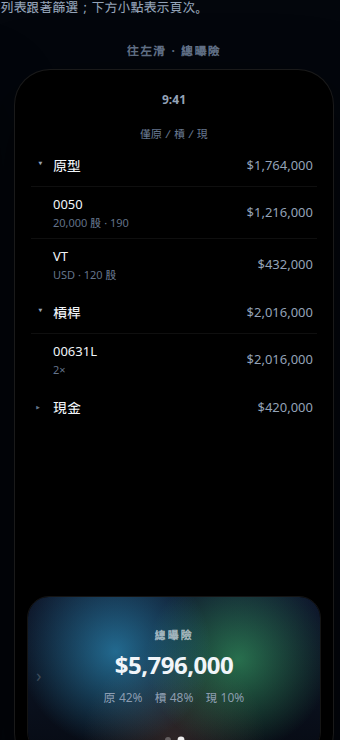
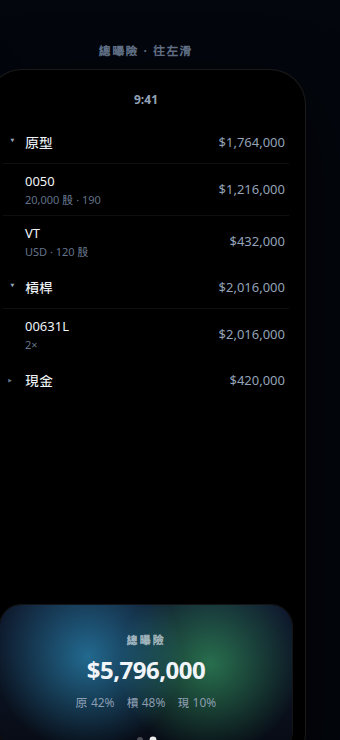
Update panel mock: centered 資產/負債, drop swipe hint
Net-worth mode shows two centered title-style blocks; tapping
資產 expands into 原槓現 (plus 實體). Remove instructional
swipe copy; page dots only.

diff --git a/mockups/panel-pager.html b/mockups/panel-pager.html
@@ -3,18 +3,14 @@
 <head>
   <meta charset="UTF-8">
   <meta name="viewport" content="width=device-width, initial-scale=1">
-  <title>光暈面板左右滑 — 淨值 / 曝險</title>
+  <title>光暈面板 — 淨值 / 曝險</title>
   <style>
     :root {
       --bg: #03060c;
       --text: #f1f5f9;
       --muted: #94a3b8;
       --dim: #64748b;
-      --row: rgba(255, 255, 255, 0.04);
       --line: rgba(255, 255, 255, 0.06);
-      --original: #38bdf8;
-      --leverage: #4ade80;
-      --cash: #facc15;
     }
     * { box-sizing: border-box; margin: 0; padding: 0; }
     body {
@@ -46,36 +42,74 @@
       height: 44px; display: flex; align-items: flex-end; justify-content: center;
       padding-bottom: 6px; font-size: 12px; font-weight: 600; color: var(--muted); flex-shrink: 0;
     }
-    /* List matches current git: 5 AssetKind sections */
     .list {
-      flex: 1; overflow: hidden; padding: 4px 0 0;
-      background: #000;
+      flex: 1; overflow: hidden; padding: 8px 0 0; background: #000;
+      display: flex; flex-direction: column;
     }
-    .section { padding: 0 16px; margin-bottom: 2px; }
+
+    /* Centered blocks — same weight as nav title「資產」 */
+    .block-stack {
+      flex: 1; display: flex; flex-direction: column;
+      justify-content: center; gap: 36px; padding: 0 24px 8px;
+    }
+    .block {
+      text-align: center;
+    }
+    .block .title {
+      font-size: 17px; font-weight: 600; letter-spacing: -0.01em;
+      /* matches inline nav title「資產」 */
+    }
+    .block .amt {
+      margin-top: 8px;
+      font-size: 15px; font-weight: 500;
+      font-variant-numeric: tabular-nums;
+      color: var(--muted);
+    }
+    .block.debt .amt { color: var(--dim); }
+
+    /* Expanded 資產 → 原槓現 (+ 實體仍屬資產，列在展開後) */
+    .expanded-head {
+      text-align: center; padding: 10px 16px 6px;
+    }
+    .expanded-head .title {
+      font-size: 17px; font-weight: 600;
+    }
+    .expanded-head .amt {
+      margin-top: 4px; font-size: 13px; color: var(--muted);
+      font-variant-numeric: tabular-nums;
+    }
+    .section { padding: 0 16px; }
     .header {
       display: flex; align-items: center; gap: 8px;
       padding: 11px 4px; font-size: 14px;
     }
     .header .chev { font-size: 9px; color: var(--dim); width: 10px; }
     .header .chev.open { display: inline-block; transform: rotate(90deg); color: var(--muted); }
-    .header .title { flex: 1; font-weight: 500; }
-    .header .amt { font-size: 13px; color: var(--muted); font-variant-numeric: tabular-nums; }
+    .header .t { flex: 1; font-weight: 500; }
+    .header .a { font-size: 13px; color: var(--muted); font-variant-numeric: tabular-nums; }
     .item {
       display: flex; align-items: center; padding: 8px 4px 8px 22px;
       border-top: 1px solid var(--line); font-size: 13px;
     }
     .item .n { flex: 1; }
     .item .sub { font-size: 11px; color: var(--dim); margin-top: 2px; }
-    .item .amt { color: var(--muted); font-variant-numeric: tabular-nums; }
-    .ghost { opacity: 0.28; pointer-events: none; }
+    .item .a { color: var(--muted); font-variant-numeric: tabular-nums; }
+    .debt-block-bottom {
+      margin-top: auto; padding: 20px 24px 12px; text-align: center;
+      border-top: 1px solid var(--line);
+    }
+    .debt-block-bottom .title { font-size: 17px; font-weight: 600; }
+    .debt-block-bottom .amt {
+      margin-top: 6px; font-size: 15px; color: var(--dim);
+      font-variant-numeric: tabular-nums;
+    }
     .fade-note {
       text-align: center; font-size: 11px; color: var(--dim);
-      padding: 8px 16px 4px; letter-spacing: 0.04em;
+      padding: 6px 16px 2px; letter-spacing: 0.04em;
     }
 
-    /* Docked glow panel — horizontal pages */
     .dock {
-      flex-shrink: 0; margin: 6px 12px 14px; height: 158px;
+      flex-shrink: 0; margin: 6px 12px 14px; height: 150px;
       border-radius: 22px; position: relative; overflow: hidden;
       border: 1px solid rgba(255, 255, 255, 0.08);
       box-shadow: 0 10px 28px rgba(0,0,0,0.35);
@@ -93,7 +127,6 @@
       background:
         radial-gradient(circle at 30% 35%, rgba(56, 189, 248, 0.5), transparent 42%),
         radial-gradient(circle at 72% 40%, rgba(74, 222, 128, 0.45), transparent 40%),
-        radial-gradient(circle at 50% 90%, rgba(217, 148, 107, 0.18), transparent 45%),
         linear-gradient(180deg, #0f1a2e, #070b14);
     }
     .pager {
@@ -104,7 +137,7 @@
     .page {
       flex: 0 0 100%; width: 100%; height: 100%;
       display: flex; flex-direction: column; align-items: center; justify-content: center;
-      padding: 12px 16px 28px; text-align: center;
+      padding: 12px 16px 26px; text-align: center;
     }
     .page .label {
       font-size: 11px; font-weight: 600; letter-spacing: 0.18em;
@@ -118,11 +151,6 @@
       margin-top: 8px; font-size: 12px; color: rgba(148, 163, 184, 0.95);
       font-variant-numeric: tabular-nums; min-height: 16px;
     }
-    .page .hint-swipe {
-      margin-top: 6px; font-size: 10px; color: rgba(148, 163, 184, 0.45);
-      letter-spacing: 0.06em;
-    }
-    /* iOS-style page dots */
     .dots {
       position: absolute; z-index: 3; left: 0; right: 0; bottom: 10px;
       display: flex; justify-content: center; gap: 7px; pointer-events: none;
@@ -130,50 +158,37 @@
     .dots span {
       width: 6px; height: 6px; border-radius: 50%;
       background: rgba(255, 255, 255, 0.28);
-      transition: background 0.2s, transform 0.2s;
     }
     .phone[data-page="0"] .dots span:nth-child(1),
     .phone[data-page="1"] .dots span:nth-child(2) {
       background: rgba(255, 255, 255, 0.92);
       transform: scale(1.15);
     }
-    .edge-cue {
-      position: absolute; z-index: 2; top: 50%; transform: translateY(-50%);
-      font-size: 18px; color: rgba(255,255,255,0.2); pointer-events: none;
-    }
-    .edge-cue.r { right: 8px; }
-    .edge-cue.l { left: 8px; }
   </style>
 </head>
 <body>
   <div class="page-title">
-    <div class="badge">MOCK · 對齊目前 git · 非實作</div>
-    <h1>光暈面板左右滑：總淨值 ↔ 總曝險</h1>
-    <p>資產列表維持現有 5 類。面板換頁時列表跟著篩選；下方小點表示頁次。</p>
+    <div class="badge">MOCK · 非實作</div>
+    <h1>淨值：資產／負債兩塊 · 點資產展開原槓現</h1>
+    <p>面板無滑動提示文案；小點表示頁次。</p>
   </div>
 
   <div class="stage">
-    <!-- Page 0: 總淨值 -->
+    <!-- 淨值 · 收合 -->
     <div class="col">
-      <div class="col-label">預設 · 總淨值</div>
+      <div class="col-label">總淨值 · 預設</div>
       <div class="phone" data-page="0">
         <div class="status-bar">9:41</div>
         <div class="list">
-          <div class="section">
-            <div class="header"><span class="chev open">▶</span><span class="title">原型</span><span class="amt">$1,764,000</span></div>
-            <div class="item"><div class="n">0050<div class="sub">20,000 股 · 190</div></div><span class="amt">$1,216,000</span></div>
-          </div>
-          <div class="section">
-            <div class="header"><span class="chev">▶</span><span class="title">槓桿</span><span class="amt">$2,016,000</span></div>
-          </div>
-          <div class="section">
-            <div class="header"><span class="chev">▶</span><span class="title">現金</span><span class="amt">$420,000</span></div>
-          </div>
-          <div class="section">
-            <div class="header"><span class="chev">▶</span><span class="title">實體資產</span><span class="amt">$800,000</span></div>
-          </div>
-          <div class="section">
-            <div class="header"><span class="chev">▶</span><span class="title">負債</span><span class="amt">$380,000</span></div>
+          <div class="block-stack">
+            <div class="block">
+              <div class="title">資產</div>
+              <div class="amt">$5,000,000</div>
+            </div>
+            <div class="block debt">
+              <div class="title">負債</div>
+              <div class="amt">$380,000</div>
+            </div>
           </div>
         </div>
         <div class="dock">
@@ -182,9 +197,7 @@
             <div class="page">
               <div class="label">總淨值</div>
               <div class="value">$4,620,000</div>
-              <!-- 淨值頁：不顯示原槓現 -->
               <div class="alloc"></div>
-              <div class="hint-swipe">← 滑向總曝險</div>
             </div>
             <div class="page">
               <div class="label">總曝險</div>
@@ -192,32 +205,76 @@
               <div class="alloc">原 42%　槓 48%　現 10%</div>
             </div>
           </div>
-          <div class="edge-cue r">‹</div>
-          <div class="dots" aria-label="第 1 頁，共 2 頁"><span></span><span></span></div>
+          <div class="dots"><span></span><span></span></div>
         </div>
       </div>
     </div>
 
-    <!-- Page 1: 總曝險 -->
+    <!-- 淨值 · 點資產展開 -->
     <div class="col">
-      <div class="col-label">往左滑 · 總曝險</div>
+      <div class="col-label">總淨值 · 點「資產」</div>
+      <div class="phone" data-page="0">
+        <div class="status-bar">9:41</div>
+        <div class="list">
+          <div class="expanded-head">
+            <div class="title">資產</div>
+            <div class="amt">$5,000,000</div>
+          </div>
+          <div class="section">
+            <div class="header"><span class="chev open">▶</span><span class="t">原型</span><span class="a">$1,764,000</span></div>
+            <div class="item"><div class="n">0050<div class="sub">20,000 股 · 190</div></div><span class="a">$1,216,000</span></div>
+          </div>
+          <div class="section">
+            <div class="header"><span class="chev">▶</span><span class="t">槓桿</span><span class="a">$2,016,000</span></div>
+          </div>
+          <div class="section">
+            <div class="header"><span class="chev">▶</span><span class="t">現金</span><span class="a">$420,000</span></div>
+          </div>
+          <div class="section">
+            <div class="header"><span class="chev">▶</span><span class="t">實體資產</span><span class="a">$800,000</span></div>
+          </div>
+          <div class="debt-block-bottom">
+            <div class="title">負債</div>
+            <div class="amt">$380,000</div>
+          </div>
+        </div>
+        <div class="dock">
+          <div class="glow-nw"></div>
+          <div class="pager">
+            <div class="page">
+              <div class="label">總淨值</div>
+              <div class="value">$4,620,000</div>
+              <div class="alloc"></div>
+            </div>
+            <div class="page">
+              <div class="label">總曝險</div>
+              <div class="value">$5,796,000</div>
+              <div class="alloc">原 42%　槓 48%　現 10%</div>
+            </div>
+          </div>
+          <div class="dots"><span></span><span></span></div>
+        </div>
+      </div>
+    </div>
+
+    <!-- 曝險 -->
+    <div class="col">
+      <div class="col-label">總曝險 · 往左滑</div>
       <div class="phone" data-page="1">
         <div class="status-bar">9:41</div>
         <div class="list">
-          <div class="fade-note">僅原／槓／現</div>
           <div class="section">
-            <div class="header"><span class="chev open">▶</span><span class="title">原型</span><span class="amt">$1,764,000</span></div>
-            <div class="item"><div class="n">0050<div class="sub">20,000 股 · 190</div></div><span class="amt">$1,216,000</span></div>
-            <div class="item"><div class="n">VT<div class="sub">USD · 120 股</div></div><span class="amt">$432,000</span></div>
+            <div class="header"><span class="chev open">▶</span><span class="t">原型</span><span class="a">$1,764,000</span></div>
+            <div class="item"><div class="n">0050<div class="sub">20,000 股 · 190</div></div><span class="a">$1,216,000</span></div>
+            <div class="item"><div class="n">VT<div class="sub">USD · 120 股</div></div><span class="a">$432,000</span></div>
           </div>
           <div class="section">
-            <div class="header"><span class="chev open">▶</span><span class="title">槓桿</span><span class="amt">$2,016,000</span></div>
-            <div class="item"><div class="n">00631L<div class="sub">2×</div></div><span class="amt">$2,016,000</span></div>
+            <div class="header"><span class="chev open">▶</span><span class="t">槓桿</span><span class="a">$2,016,000</span></div>
+            <div class="item"><div class="n">00631L<div class="sub">2×</div></div><span class="a">$2,016,000</span></div>
           </div>
           <div class="section">
-            <div class="header"><span class="chev">▶</span><span class="title">現金</span><span class="amt">$420,000</span></div>
+            <div class="header"><span class="chev">▶</span><span class="t">現金</span><span class="a">$420,000</span></div>
           </div>
-          <!-- 實體、負債在曝險頁隱藏 -->
         </div>
         <div class="dock">
           <div class="glow-ex"></div>
@@ -233,8 +290,7 @@
               <div class="alloc">原 42%　槓 48%　現 10%</div>
             </div>
           </div>
-          <div class="edge-cue l">›</div>
-          <div class="dots" aria-label="第 2 頁，共 2 頁"><span></span><span></span></div>
+          <div class="dots"><span></span><span></span></div>
         </div>
       </div>
     </div>
